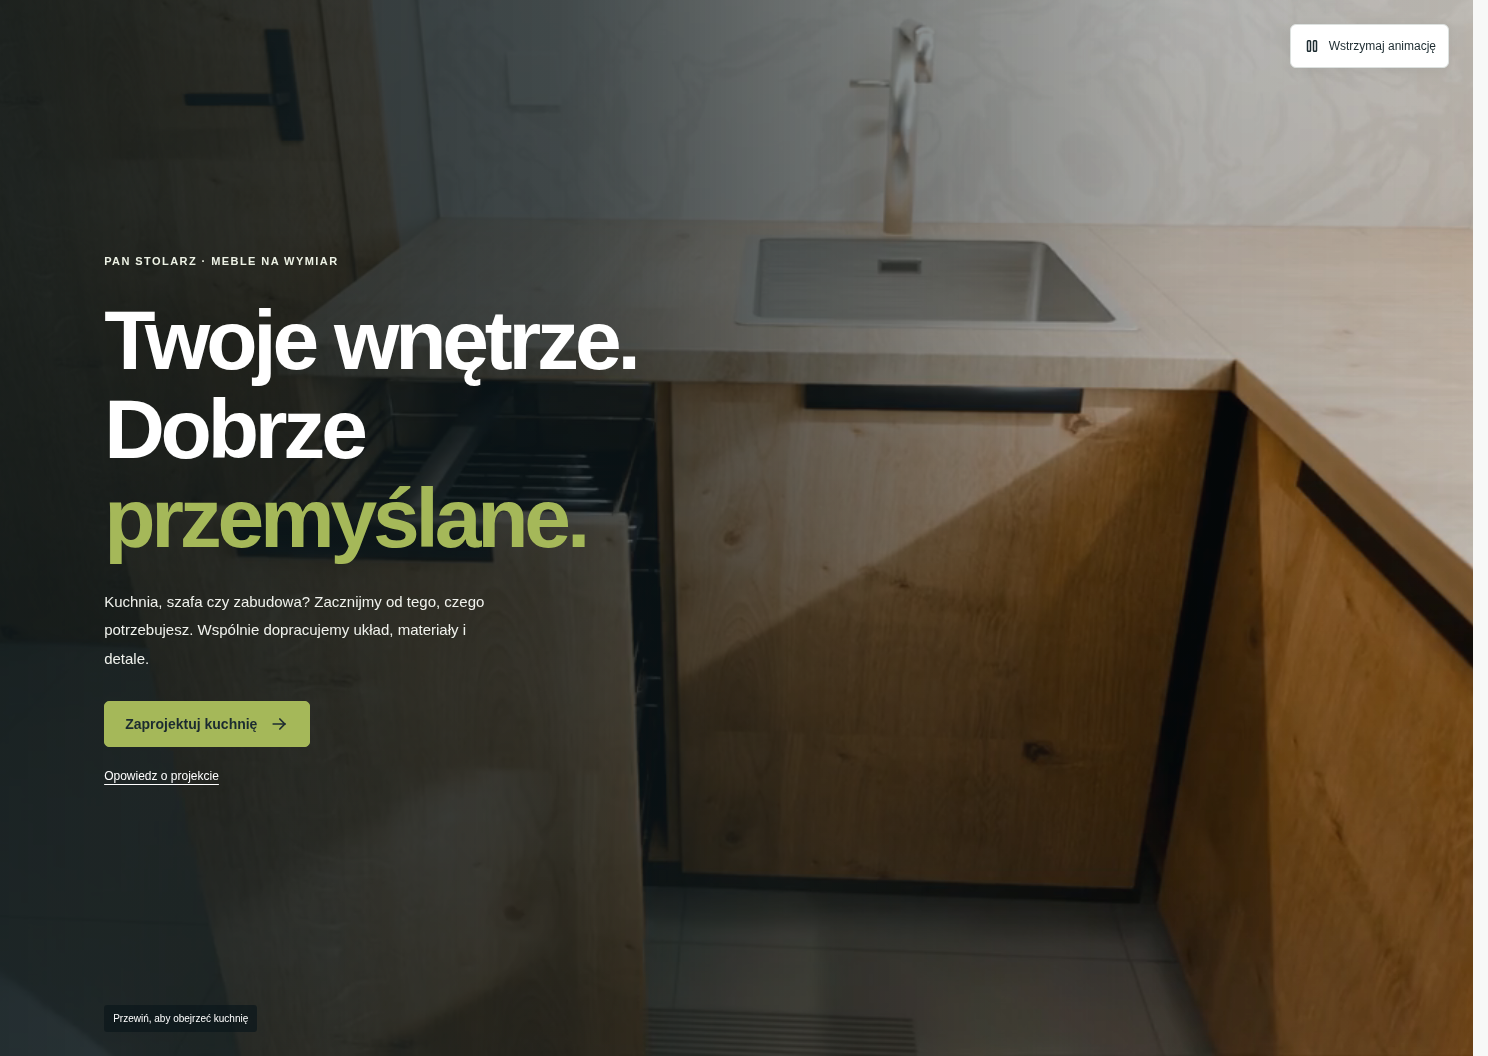
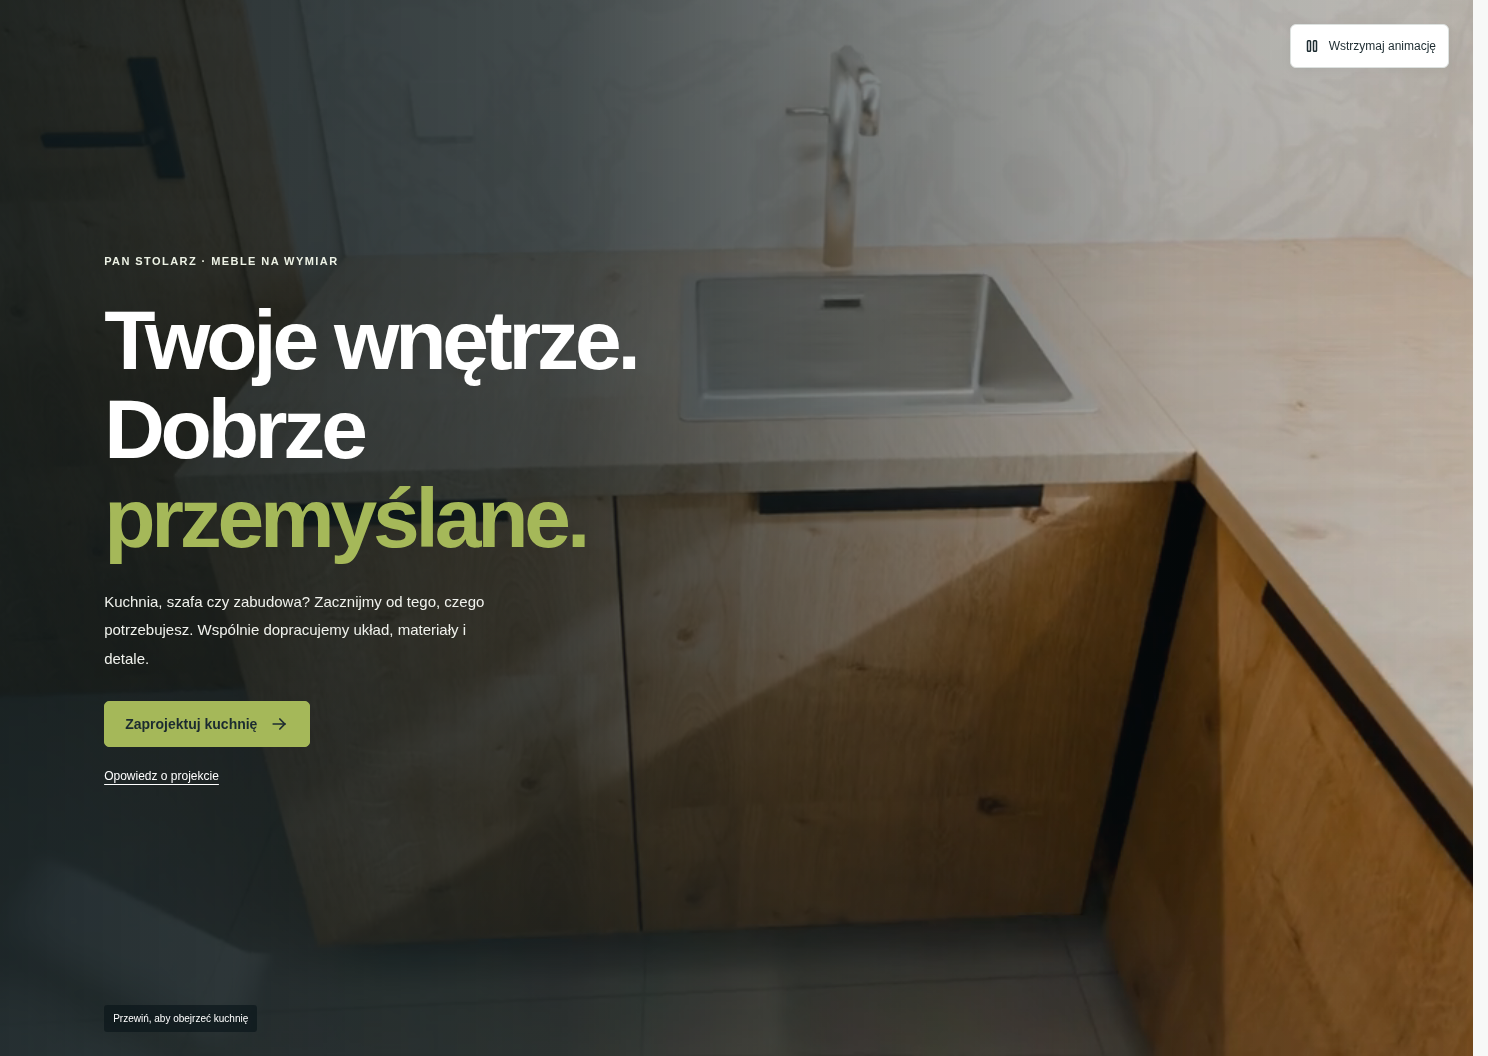
Slow hero animation to natural playback speed and soften scroll response

diff --git a/tests/v2/home-animation.spec.ts b/tests/v2/home-animation.spec.ts
@@ -32,11 +32,11 @@ test("intro timeline follows scroll in both directions and can be paused", async
     .evaluate((v: HTMLVideoElement) => v.duration);
   await scrollProgress(page, 0.65);
   await expect
-    .poll(() => time(page), { timeout: 10000 })
+    .poll(() => time(page), { timeout: 25000 })
     .toBeGreaterThan(duration * 0.5);
   await scrollProgress(page, 0.2);
   await expect
-    .poll(() => time(page), { timeout: 10000 })
+    .poll(() => time(page), { timeout: 25000 })
     .toBeLessThan(duration * 0.3);
   await page.getByRole("button", { name: "Wstrzymaj animację" }).click();
   const frozen = await time(page);
@@ -44,7 +44,7 @@ test("intro timeline follows scroll in both directions and can be paused", async
   await expect.poll(() => time(page)).toBeCloseTo(frozen, 1);
   await page.getByRole("button", { name: "Wznów animację" }).click();
   await expect
-    .poll(() => time(page), { timeout: 10000 })
+    .poll(() => time(page), { timeout: 25000 })
     .toBeGreaterThan(duration * 0.5);
   expect(
     await page
@@ -98,7 +98,7 @@ test("phone video fills the hero background and keeps working navigation", async
     )
     .toBeGreaterThanOrEqual(2);
   await scrollProgress(page, 0.5);
-  await expect.poll(() => time(page)).toBeGreaterThan(5);
+  await expect.poll(() => time(page), { timeout: 12000 }).toBeGreaterThan(5);
   const box = await page.locator(".ps-intro-film").boundingBox();
   const hero = await page.locator(".ps-home-intro > .ps-hero").boundingBox();
   expect(box!.width).toBeCloseTo(hero!.width, 0);
@@ -166,6 +166,7 @@ test("hero copy reveals with scroll while actions remain available", async ({
 test("large scroll input is damped instead of jumping through the kitchen", async ({
   page,
 }) => {
+  test.setTimeout(60000);
   await page.goto("/#/");
   await expect
     .poll(
@@ -181,7 +182,7 @@ test("large scroll input is damped instead of jumping through the kitchen", asyn
     .evaluate(
       (el) => (el.getBoundingClientRect().height - innerHeight) / innerHeight,
     );
-  expect(range).toBeCloseTo(2.6, 1);
+  expect(range).toBeCloseTo(4.6, 1);
   const immediate = await page.evaluate(async () => {
     const el = document.querySelector<HTMLElement>(".ps-home-intro")!;
     scrollTo(0, el.offsetTop + (el.offsetHeight - innerHeight) * 0.85);
@@ -192,15 +193,15 @@ test("large scroll input is damped instead of jumping through the kitchen", asyn
     );
     return document.querySelector("video")!.currentTime;
   });
-  expect(immediate).toBeLessThan(1.2);
+  expect(immediate).toBeLessThan(0.4);
   const duration = await page
     .locator(".ps-intro-film video")
     .evaluate((v: HTMLVideoElement) => v.duration);
   await expect
-    .poll(() => time(page), { timeout: 10000 })
+    .poll(() => time(page), { timeout: 25000 })
     .toBeGreaterThan(duration * 0.6);
   await scrollProgress(page, 0.15);
   await expect
-    .poll(() => time(page), { timeout: 10000 })
+    .poll(() => time(page), { timeout: 25000 })
     .toBeLessThan(duration * 0.2);
 });

diff --git a/web/src/v2/home-motion.test.ts b/web/src/v2/home-motion.test.ts
@@ -2,9 +2,9 @@ import { test } from "node:test";
 import assert from "node:assert/strict";
 import { advanceMovieTime } from "./home-motion";
 test("large jumps respect the camera speed bound in both directions", () => {
-  assert.ok(advanceMovieTime(0, 14, 1 / 60) <= 4 / 60);
-  assert.ok(advanceMovieTime(14, 0, 1 / 60) >= 14 - 4 / 60);
-  assert.ok(advanceMovieTime(0, 14, 5) <= 4 * 0.064);
+  assert.ok(advanceMovieTime(0, 14, 1 / 60) <= 1 / 60);
+  assert.ok(advanceMovieTime(14, 0, 1 / 60) >= 14 - 1 / 60);
+  assert.ok(advanceMovieTime(0, 14, 5) <= 0.064);
 });
 test("normal scroll settles smoothly without overshooting or oscillating", () => {
   let time = 0;

diff --git a/web/src/v2/styles.css b/web/src/v2/styles.css
@@ -1853,7 +1853,7 @@ summary:focus-visible {
 }
 /* Kitchen Daria is the full-bleed background of the hero. */
 .ps-home-intro.has-motion {
-  height: 360svh;
+  height: 560svh;
 }
 .ps-home-intro > .ps-hero {
   position: relative;
@@ -1979,7 +1979,7 @@ summary:focus-visible {
 }
 @media (max-width: 800px) {
   .ps-home-intro.has-motion {
-    height: 280svh;
+    height: 400svh;
   }
   .ps-home-intro > .ps-hero {
     padding: 96px 24px 100px;

diff --git a/web/src/v2/home-motion.ts b/web/src/v2/home-motion.ts
@@ -7,6 +7,6 @@ export function advanceMovieTime(
   const dt = Math.max(0, Math.min(elapsedSeconds, 0.064));
   const delta = target - current;
   if (Math.abs(delta) < 0.025) return target;
-  const eased = delta * (1 - Math.exp(-dt / 0.28));
-  return current + Math.max(-4 * dt, Math.min(4 * dt, eased));
+  const eased = delta * (1 - Math.exp(-dt / 0.45));
+  return current + Math.max(-dt, Math.min(dt, eased));
 }

diff --git a/DESIGN.md b/DESIGN.md
@@ -63,7 +63,7 @@ Układ U: trzy ściany A/B/C z niezależnymi długościami. Puste strefy narożn
 
 Strona główna używa dostarczonego przez użytkownika filmu kuchni Darii, nie generowanej fotografii w hero. `v2/HomeIntro.tsx` jest właścicielem powiązania scrolla z czasem filmu. Film wypełnia całą powierzchnię hero jako tło (cover), z ciemną nakładką i tekstem HTML nad nim. Kadrowanie zależy od ekranu. Biała typografia i zielony akcent utrzymują czytelność. Nagłówek i opis ujawniają się ze scrollem, a CTA są zawsze widoczne. Normalny scroll i statyczne CTA są zawsze dostępne. Poster i podgląd statyczny dla reduced-motion, oszczędzania danych i awarii; widoczny przycisk pauzy/wznowienia. Brak autoplay i audio. Dostarczony film składania szafki ma osobną sekcję i natywne kontrolki odtwarzania. Szczegóły: docs/ANIMACJE-STRONA-GLOWNA.md.
 
-Tempo intro: zakres 360 svh desktop / 280 svh telefon. Kadr i tekst łagodnie dochodzą do postępu scrolla; bez sprężynowania, oscylacji i przechwytywania gestów. Wygładzanie czasu filmu należy do v2/home-motion.ts.
+Tempo intro: zakres 560 svh desktop / 400 svh telefon. Kadr i tekst łagodnie dochodzą do postępu scrolla; bez sprężynowania, oscylacji i przechwytywania gestów. Wygładzanie czasu filmu należy do v2/home-motion.ts.
 
 ## Składanie szafki i rendery projektów
 
@@ -87,3 +87,5 @@ Demonstracja ma jawny przełącznik trzech ról, oddzielony od prawdziwego logow
 Właściciel wyszukuje w załadowanej liście najnowszych 100 zapytań i filtruje rodzaj. Nie jest to wyszukiwanie całej historii w bazie. Natywny select korzysta z geometrii systemowej; pole search ma dostępny przycisk czyszczenia i zwraca fokus. Dokumentacja używa polskich etykiet diagnostyki i jawnej akcji odświeżenia. Zachowano logo, paletę, typografię oraz spokojne tempo hero.
 
 Renderer 3D w przestrzeni projektów jest importowany dynamicznie po wybraniu widoku 3D. Rzut, dokumentacja i dane projektu pozostają dostępne niezależnie od pobrania renderera. Suspense rezerwuje obszar podglądu i pokazuje polski status ładowania; istniejący CanvasBoundary pozostawia alternatywę 2D po awarii.
+
+Aktualizacja tempa hero: maksymalnie 1 sekunda filmu na sekundę czasu (wcześniej 4), łagodniejsze dochodzenie do kadru 0,45 s. Zakres hero 560 svh desktop / 400 svh telefon. Natywne przewijanie, pauza i ograniczenie ruchu pozostają dostępne.

diff --git a/QA-REPORT.md b/QA-REPORT.md
@@ -1,3 +1,7 @@
+## Spokojniejsze otwieranie — 31.10.2026
+
+Zmniejszono limit prędkości czasu filmu z 4× do 1× i zwiększono tłumienie z 0,28 s do 0,45 s. Hero ma 560 svh desktop / 400 svh telefon. Build i 2 testy home-motion poprawne. Pięć scenariuszy hero poprawnych; test telefonu wymagał wydłużenia oczekiwania na przekroczenie 5 s czasu filmu (przy limicie 1× nie może to nastąpić w 5 s testu). Ponowiony scenariusz telefonu poprawny. Potwierdzono pauzę, przewijanie w obie strony, ograniczenie skoków, fallback i reduced-motion.
+
 ## Film hero v4 — 31.10.2026
 
 Dostarczony film 1080p/26 s zoptymalizowano do 720p H.264 (6 166 969 bajtów), bez audio, z częstymi klatkami kluczowymi i faststart. Zaktualizowano źródło hero i poster; nie zmieniono scroll range, tłumienia ani limitów szybkości. Build poprawny, pełne dekodowanie ffmpeg bez błędów. Pięć testów hero poprawnych; szósty miał próg czasu dla wcześniejszego filmu 14 s. Po zastąpieniu progu odsetkiem długości nowego filmu ponowiony test dużego scrolla przeszedł. Zaktualizowano też progi testu dwukierunkowego do rzeczywistej długości. Bez zmian w zasadach motion/reduced-motion. Screenshoty desktop/telefon odzwierciedlają film v4.

diff --git a/docs/ANIMACJE-STRONA-GLOWNA.md b/docs/ANIMACJE-STRONA-GLOWNA.md
@@ -67,3 +67,5 @@ Ostatnie doprecyzowanie: tekst ujawniany jest poprzez opacity i delikatne przesu
 ## Uspokojenie przejazdu po feedbacku
 
 Zakres aktywnego przewijania wzrósł z 65 do 260 svh na komputerze (4×) i z 35 do 180 svh na telefonie (około 5×). HomeIntro nie przypisuje już od razu docelowego czasu filmu: helper home-motion.ts wygładza go w czasie, z limitem skoku po dużym ruchu scrolla i bez oscylacji. Nagłówek/opis również mają wygładzany postęp. Mechanizm zasypia po osiągnięciu celu, poza sekcją i w nieaktywnej karcie. Pause zatrzymuje film, a wznowienie łagodnie dochodzi do aktualnej pozycji.
+
+Aktualizacja tempa hero: maksymalnie 1 sekunda filmu na sekundę czasu (wcześniej 4), łagodniejsze dochodzenie do kadru 0,45 s. Zakres hero 560 svh desktop / 400 svh telefon. Natywne przewijanie, pauza i ograniczenie ruchu pozostają dostępne.

diff --git a/docs/STATUS-PAN-STOLARZ.md b/docs/STATUS-PAN-STOLARZ.md
@@ -42,3 +42,5 @@ Naprawiono rozpoznawanie sekcji panelu z parametrami hash (ważne przy odśwież
 Renderer 3D w panelu projektów jest ładowany dopiero po wyborze 3D; ekran 2D i dokumentacja nie wymagają jego pobrania. Nie zmienia to geometrii ani zachowania silnika. Pozostaje build warning wielkości chunka samego renderera.
 
 Aktualizacja hero: dostarczona Kuchnia-Darii-animacja-v4.mp4 (26 s) zastępuje v2. HomeIntro używa nowych nazw plików, bez zmiany sterowania scrollem i wygładzania.
+
+Aktualizacja tempa hero: maksymalnie 1 sekunda filmu na sekundę czasu (wcześniej 4), łagodniejsze dochodzenie do kadru 0,45 s. Zakres hero 560 svh desktop / 400 svh telefon. Natywne przewijanie, pauza i ograniczenie ruchu pozostają dostępne.
